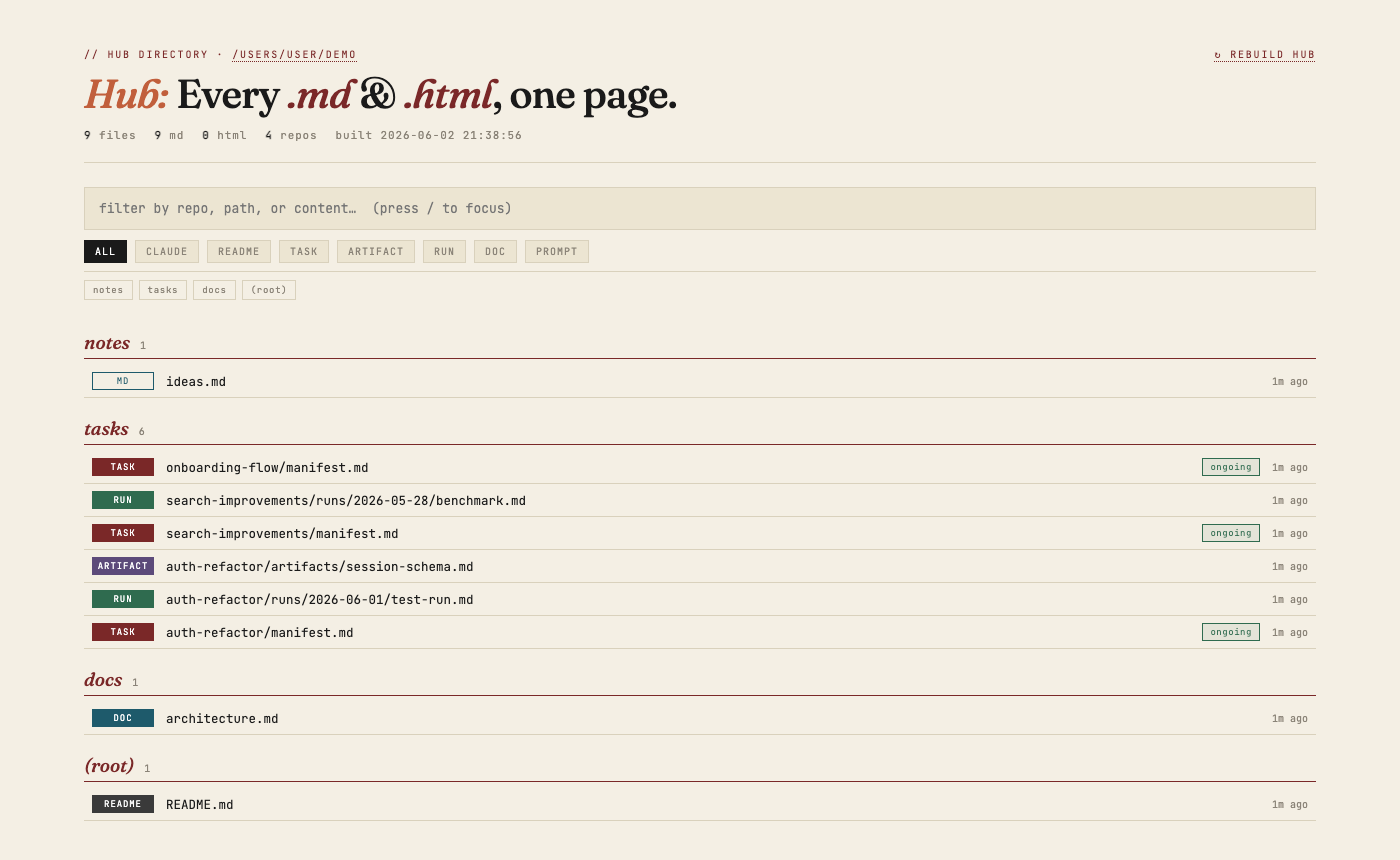
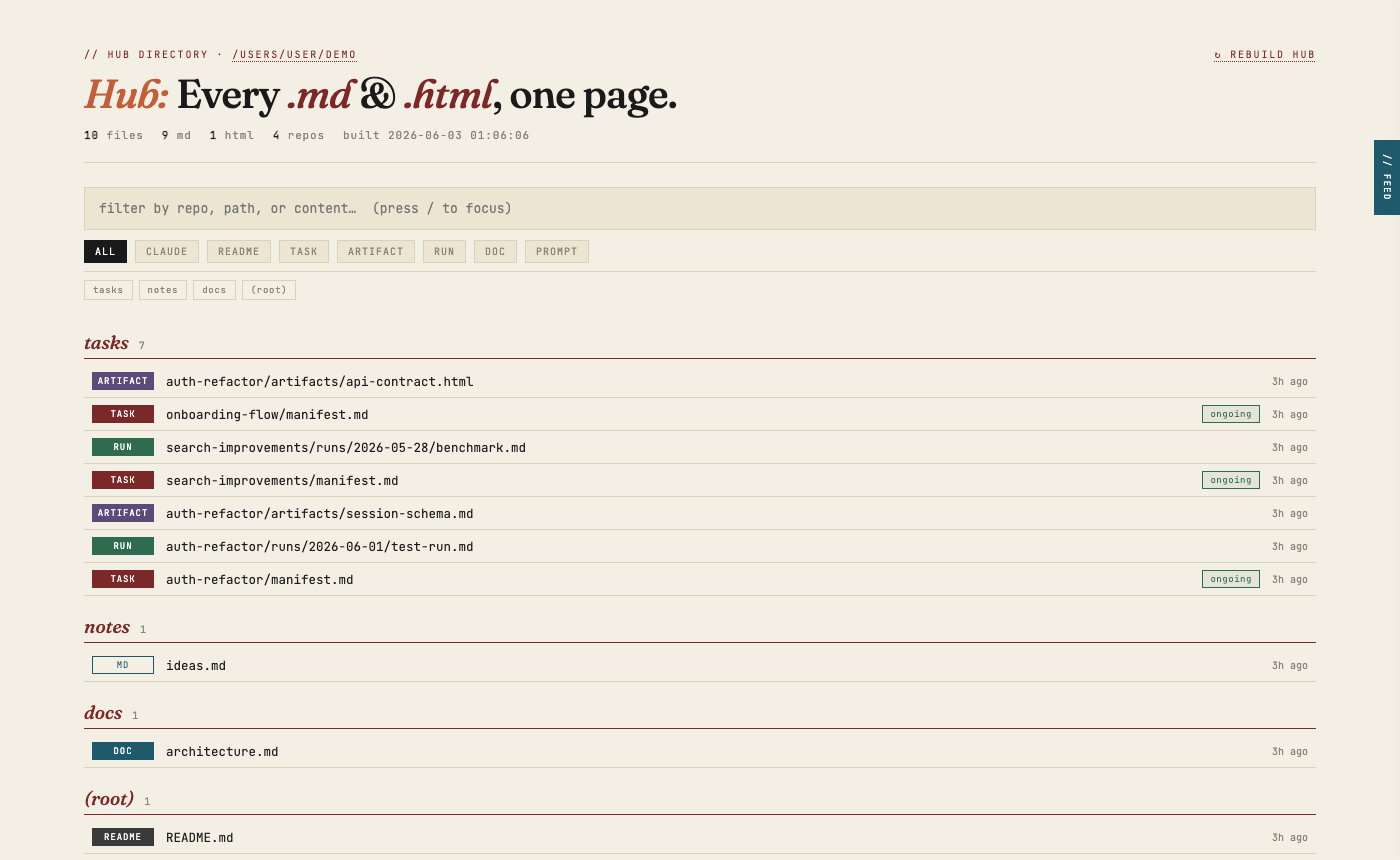
Update README with hub feed, new screenshots, and keyboard shortcuts

diff --git a/README.md b/README.md
@@ -11,23 +11,29 @@ Hub scans a directory tree, indexes every document into SQLite with full-text se
 ## Screenshots
 
 ### Index — grouped by repo, filtered by kind, sorted by recency
+Status badges on every task manifest. Click to cycle `ongoing → completed → paused`, saved instantly.
 
-![Hub index with status badges and kind filters](assets/screenshots/index.png)
+![Hub index](assets/screenshots/index.png)
 
 ### Split-pane preview with task trace
 Click any row to open a live preview. The `// trace` panel links to related runs, artifacts, and the parent task.
 
 ![Split-pane preview](assets/screenshots/preview.png)
 
+### Hub Feed — floating activity drawer
+Press `Ctrl+F` or click the `// feed` tab on the right edge. Shows the last 50 file events across the scan root — what changed, which task, when.
+
+![Hub feed drawer](assets/screenshots/feed-drawer.png)
+
 ### Markdown document page
-Every file opens in a clean reading view with a `// trace` bar below the heading.
+Every file opened in its own tab gets a clean reading view with a `// trace` bar below the heading.
 
 ![Markdown document page](assets/screenshots/doc.png)
 
 ### HTML document page
-HTML artifacts are served with the hub's own CSS injected and the `// trace` bar linking back to the parent task — no extra configuration needed.
+HTML artifacts are served with the hub's own CSS injected and the `// trace` bar linking back to the parent task.
 
-![HTML artifact page with trace bar](assets/screenshots/doc-html.png)
+![HTML artifact page](assets/screenshots/doc-html.png)
 
 ---
 
@@ -36,8 +42,9 @@ HTML artifacts are served with the hub's own CSS injected and the `// trace` bar
 - **Full-text search** — filter by repo, path, title, and body simultaneously. Implicit AND, `repo:name` prefix supported.
 - **Kind chips** — one-click filters for TASK, RUN, ARTIFACT, CLAUDE, README, DOC, PROMPT. Stack with repo chips and search.
 - **Task status badges** — every task manifest shows a clickable status pill. Cycles `ongoing → completed → paused`, persisted to SQLite without a rebuild.
-- **Split-pane preview** — click any row for a live rendered preview with lineage trace. No page navigation.
-- **Backlinked doc pages** — open any file in its own tab and the `// trace` bar appears below the heading, linking to all related files in both directions. Works for `.md` and `.html`.
+- **Split-pane preview** — click any row for a live rendered preview with lineage trace. No page navigation needed.
+- **Hub Feed** — floating drawer (`Ctrl+F`) showing recent file activity: what changed, which task, how long ago. Persisted across rebuilds, backfilled on first run.
+- **Backlinked doc pages** — open any file in its own tab and the `// trace` bar appears below the heading, linking to all related files. Works for `.md` and `.html`.
 - **Auto-rebuild** — file watcher triggers a rebuild within ~3s of any change in the scan root.
 - **Keyboard-first** — navigate the full list without a mouse.
 
@@ -101,10 +108,11 @@ Hub understands this layout and builds a lineage graph automatically:
 | Key | Action |
 |-----|--------|
 | `/` | Focus search |
+| `Ctrl+F` | Toggle hub feed drawer |
 | `j` / `↓` | Next file |
 | `k` / `↑` | Previous file |
 | `Enter` | Open in new tab |
-| `Esc` | Close preview |
+| `Esc` | Close preview / feed |
 
 ---
 
@@ -134,7 +142,7 @@ Priority: `HUB_SCAN_ROOT` env var → `.scan_root` sidecar → `~/tifin` default
 hub/
 ├── hub.py              scan, index, render
 ├── server.py           HTTP server · markdown renderer · file watcher
-├── db.py               SQLite — files, lineage, FTS5, task_status
+├── db.py               SQLite — files, lineage, FTS5, task_status, activity_log
 ├── metadata.py         title + body extraction
 ├── templates/
 │   └── template.html   single-file HTML/CSS/JS template
